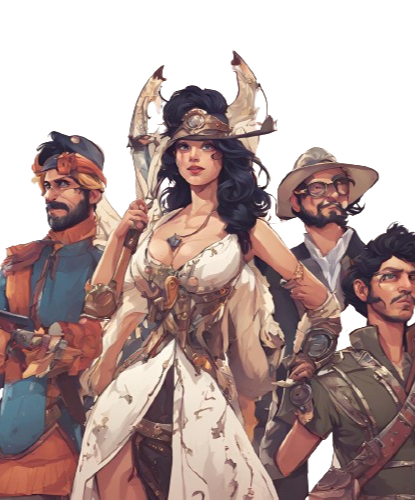
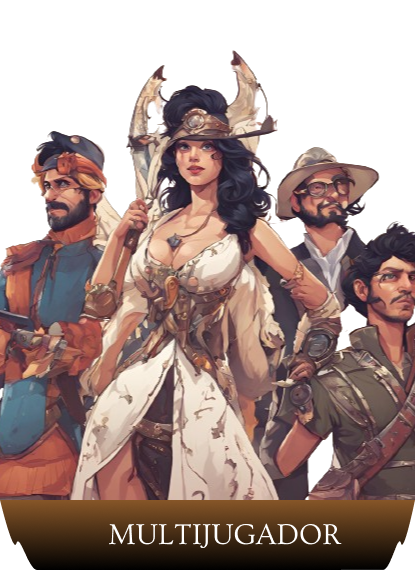
avance solitario

diff --git a/css/solitario.css b/css/solitario.css
@@ -1,13 +1,37 @@
-.inicio {
+
+
+.container{
     display: flex;
-    flex-direction: column;
+    flex-direction: row wrap;
     justify-content: center;
-    align-items: center;
-    height: 100vh;
-    padding: 20px;
+    height: 70vh;
+    width: 100vh;
+}
+@media(max-width: 414px){
+    .container{ 
+        flex-direction: column;
+        overflow-y: scroll;
+        display: flex;
+        justify-content: flex-start;
+        align-items: flex-start;
+        margin-left: -18px ;
+    }
 }
 
-.imgsolitario{
-    position: relative;
+.imgSolitario{
+    display: flex;
+    background-repeat: no-repeat;
+    justify-content: space-evenly;
+    align-items: center;
+}
+.imgMultijugador{
+    display: flex;
+    background-repeat: no-repeat;
+    justify-content: center;
+    align-items: center;
+    margin-bottom: 40px;
+}
+.imgs{
     
+    width: 350px;
 }

diff --git a/jugador.html b/jugador.html
@@ -7,6 +7,7 @@
     <title>Sajuro</title>
     <link rel="stylesheet" href="bootstrap-5.2.1-dist/css/bootstrap.css">
     <link rel="stylesheet" href="css/styles.css">
+    <link rel="stylesheet" href="css/solitario.css">
     <link href="https://fonts.cdnfonts.com/css/old-english-five" rel="stylesheet">
 </head>
 <header>
@@ -17,12 +18,14 @@
         <div class="titulo">
             SAJURO
         </div>
+        <div class="container">
         <div class="imgSolitario">
-            <img src="css/img/solitario.png" alt="">
+            <img src="css/img/solitario.png" alt="" class="imgs">
         </div>
         <div class="imgMultijugador">
-            <img src="css/img/multijugador.png" alt="">
+            <img src="css/img/multijugador.png" alt="" class="imgs">
         </div>
+    </div>
     </div>
 </body>
 <footer>
